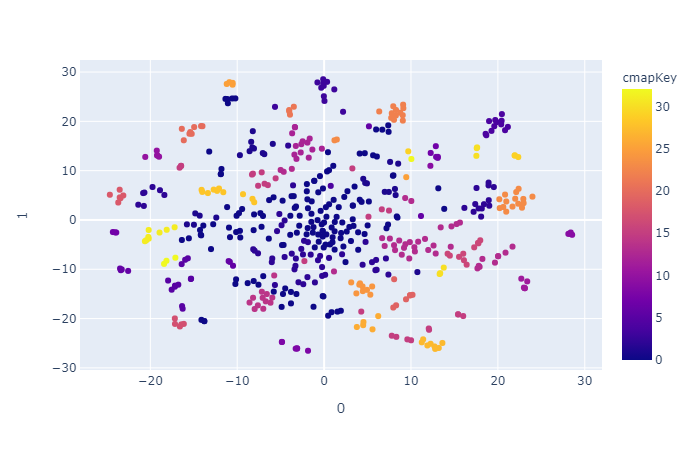
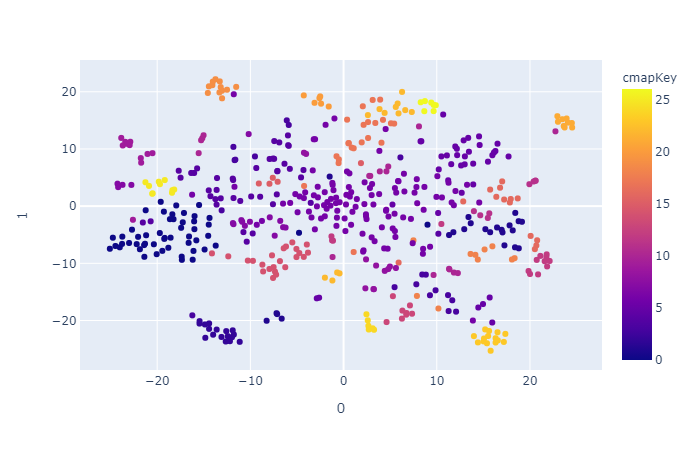
Fixed tfidf key merging with makes everything work!

diff --git a/tfidf/tfidf_cluster.py b/tfidf/tfidf_cluster.py
@@ -48,44 +48,48 @@ def combine_misc(df, numCol: str, titleCol: str):
     return df
 
 # * Using clustering to append the cleaned dump with job key
-# ! SOMETHING IS WRONG WITH APPENDING
-def append_keys(appended_file='dump_cleaned.csv', input_file='tfidf/tfidf_positions.csv', new_col='tfidfKey', cluster_threshold=1):
+def append_keys(appended_file='dump_cleaned.csv', input_file='tfidf/tfidf_positions.csv', title_col='posTitle', name_col='tfidfKey', num_col='tfidfKeyNum', cluster_threshold=1):
     print('\nDATA WITH TFIDF CLUSTERED GROUPINGS')
     df = pd.read_csv(input_file)
-    data = df.drop(['posTitle'], axis=1)
-    titles = df['posTitle']
+    data = df.drop([title_col], axis=1)
+    titles = df[title_col]
 
     # Add groups to the data
-    new_col_num = new_col+'Num'
-    categories = cluster(data, new_col_num, titles, cluster_threshold=cluster_threshold)
+    categories = cluster(data, num_col, titles, cluster_threshold=cluster_threshold)
     new_df = pd.merge(df, categories, on='posTitle')
-    grouped_df = new_df.groupby(new_col_num)
+    grouped_df = new_df.groupby(num_col)
     
     # Name each group
     job_keys = [0] * len(grouped_df)
     for i, group in grouped_df:
         # Gather the data for the cluster
-        vecs = group.drop(['posTitle', new_col_num], axis=1)
-        group_titles = group['posTitle']
+        vecs = group.drop([title_col, num_col], axis=1)
+        group_titles = group[title_col]
         # Save the name
         job_keys[i] = name_group(vecs, group_titles)
 
-    job_keys = pd.Series(job_keys, name=new_col)
-    categories = categories.join(job_keys)
+    job_keys = pd.Series(job_keys, name=name_col)
+    categories = pd.merge(categories, job_keys, left_on=num_col, right_index=True)
 
     # Merging into the dump_cleaned
     dump = pd.read_csv(appended_file)
+    # Replace the data if it is already there
+    if name_col in dump:
+        dump.drop(name_col, axis=1, inplace=True)
+    if num_col in dump:
+        dump.drop(num_col, axis=1, inplace=True)
+    
     # Merge the group numbers on the posTitles first
-    dump = pd.merge(dump, categories, on='posTitle')
+    dump = pd.merge(dump, categories, on=title_col)
     # Sort the rows to bring it back to where it was before
     dump = dump.sort_values(['memberUrn', 'startDate'], ascending=False)
     # Combine misc groups together
-    dump = combine_misc(dump, new_col_num, new_col)
+    dump = combine_misc(dump, num_col, name_col)
 
     # Only append the dump if the data isn't already there
     dump.to_csv(appended_file, index=False)
 
-    print(f'Final number of tfidf groups: {max(dump[new_col_num])}')
+    print(f'Final number of tfidf groups: {max(dump[num_col])}')
     print(dump.shape)
     print(dump.head())
 

diff --git a/map/career_map_compile.py b/map/career_map_compile.py
@@ -69,7 +69,6 @@ def create_career_map(og_file='dump_cleaned.csv', new_file='map/career_map.csv',
         collapsed = pd.DataFrame(collapsed)
         cmap = pd.merge(cmap[title_col], collapsed, left_index=True, right_index=True)
 
-
     # Add groupings if requested
     if cluster_threshold != None:
         assert new_col and title_col, f'A column name must be given to new_col for clustering to work'
@@ -80,21 +79,19 @@ def create_career_map(og_file='dump_cleaned.csv', new_file='map/career_map.csv',
     cmap.reset_index(inplace=True, drop=True)
 
     # * print(np.where(pd.isnull(cmap)))
-    print(cmap.head())
-    print(cmap.shape)
     
     # Save the data if requested
     if new_file:
         cmap.to_csv(new_file)
     return cmap
 
-def display_map(cmap: pd.DataFrame, numCol='cmapKey', nameCol='tfidfKey'):
+def display_map(cmap: pd.DataFrame, num_col='cmapKey', name_col='tfidfKey'):
     # Read in the data if a filename is given
     if isinstance(cmap, str):
         cmap = pd.read_csv(cmap)
 
     # Slice data to be TSNE'd
-    non_data_cols = [numCol, nameCol]
+    non_data_cols = [num_col, name_col]
     data = cmap.drop(non_data_cols, axis=1)
 
     # Reducing dimensions
@@ -111,8 +108,8 @@ def display_map(cmap: pd.DataFrame, numCol='cmapKey', nameCol='tfidfKey'):
 
     fig = px.scatter(cmap, 
         x=0, y=1,
-        color=numCol,
-        hover_name=nameCol
+        color=num_col,
+        hover_name=name_col
     )
     fig.show()
 
